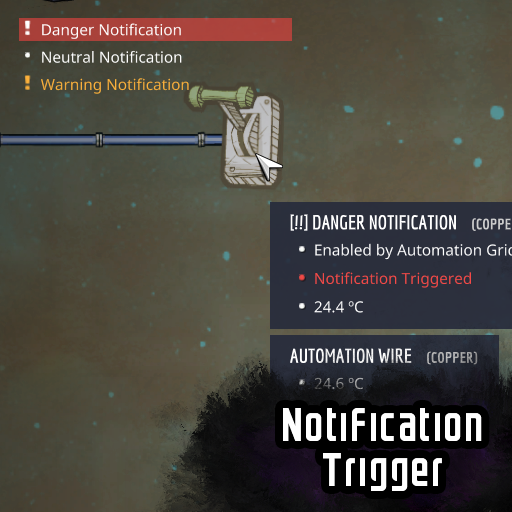
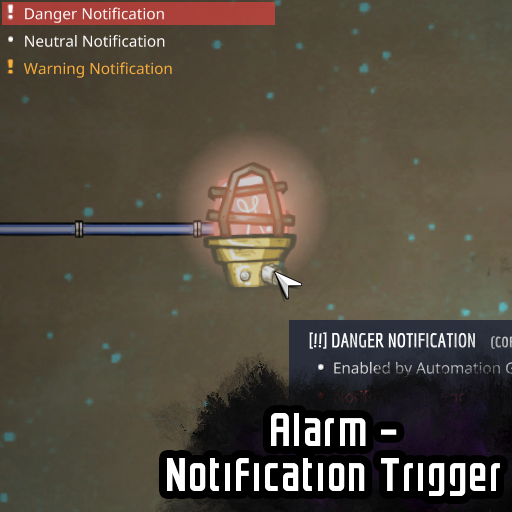
Notification Trigger art update

diff --git a/src/NotificationTrigger/NotificationTriggerPatches.cs b/src/NotificationTrigger/NotificationTriggerPatches.cs
@@ -1,6 +1,7 @@
 using CaiLib.Utils;
 using Harmony;
 using STRINGS;
+using UnityEngine;
 using static CaiLib.Logger.Logger;
 using static CaiLib.Utils.BuildingUtils;
 using static CaiLib.Utils.StringUtils;
@@ -29,6 +30,19 @@ namespace NotificationTrigger
 				Strings.Add($"STRINGS.MISC.STATUSITEMS.{NotificationTriggerConfig.Id.ToUpperInvariant()}.NAME", "Notification Triggered");
 				Strings.Add($"STRINGS.MISC.STATUSITEMS.{NotificationTriggerConfig.Id.ToUpperInvariant()}.TOOLTIP", "Custom notification has been triggered");
 				Strings.Add($"STRINGS.MISC.STATUSITEMS.{NotificationTriggerConfig.Id.ToUpperInvariant()}.NOTIFICATION_TOOLTIP", "Custom notification has been triggered");
+			}
+		}
+
+		[HarmonyPatch(typeof(BasicSingleHarvestPlantConfig))]
+		[HarmonyPatch("OnPrefabInit")]
+		public static class Plant
+		{
+			public static void Postfix(ref GameObject prefab)
+			{
+				prefab.GetComponent<PressureVulnerable>()
+					
+					.safe_atmospheres
+					.Add(ElementLoader.FindElementByHash(SimHashes.SourGas));
 			}
 		}
 

diff --git a/src/NotificationTrigger/NotificationTriggerConfig.cs b/src/NotificationTrigger/NotificationTriggerConfig.cs
@@ -27,7 +27,7 @@ namespace NotificationTrigger
 				id: Id,
 				width: 1,
 				height: 1,
-				anim: "switchpower_kanim",
+				anim: "alarm_lamp_kanim",
 				hitpoints: BUILDINGS.HITPOINTS.TIER1,
 				construction_time: BUILDINGS.CONSTRUCTION_TIME_SECONDS.TIER2,
 				construction_mass: BUILDINGS.CONSTRUCTION_MASS_KG.TIER1,
@@ -45,6 +45,7 @@ namespace NotificationTrigger
 			buildingDef.SceneLayer = Grid.SceneLayer.Building;
 			buildingDef.BaseTimeUntilRepair = -1f;
 			buildingDef.DefaultAnimState = "off";
+			buildingDef.PermittedRotations = PermittedRotations.R360;
 
 			SoundEventVolumeCache.instance.AddVolume("switchgaspressure_kanim", "PowerSwitch_on", NOISE_POLLUTION.NOISY.TIER1);
 			SoundEventVolumeCache.instance.AddVolume("switchgaspressure_kanim", "PowerSwitch_off", NOISE_POLLUTION.NOISY.TIER1);

diff --git a/src/CaiLib/Properties/AssemblyInfo.cs b/src/CaiLib/Properties/AssemblyInfo.cs
@@ -31,5 +31,5 @@ using System.Runtime.InteropServices;
 // You can specify all the values or you can default the Build and Revision Numbers
 // by using the '*' as shown below:
 // [assembly: AssemblyVersion("1.0.*")]
-[assembly: AssemblyVersion("2019.9.27.31")]
-[assembly: AssemblyFileVersion("2019.9.27.29")]
+[assembly: AssemblyVersion("2019.12.31.31")]
+[assembly: AssemblyFileVersion("2019.12.31.29")]

diff --git a/src/NotificationTrigger/Properties/AssemblyInfo.cs b/src/NotificationTrigger/Properties/AssemblyInfo.cs
@@ -31,5 +31,5 @@ using System.Runtime.InteropServices;
 // You can specify all the values or you can default the Build and Revision Numbers
 // by using the '*' as shown below:
 // [assembly: AssemblyVersion("1.0.*")]
-[assembly: AssemblyVersion("2019.9.5.0")]
-[assembly: AssemblyFileVersion("2019.9.5.0")]
+[assembly: AssemblyVersion("2019.12.31.0")]
+[assembly: AssemblyFileVersion("2019.12.31.2")]
